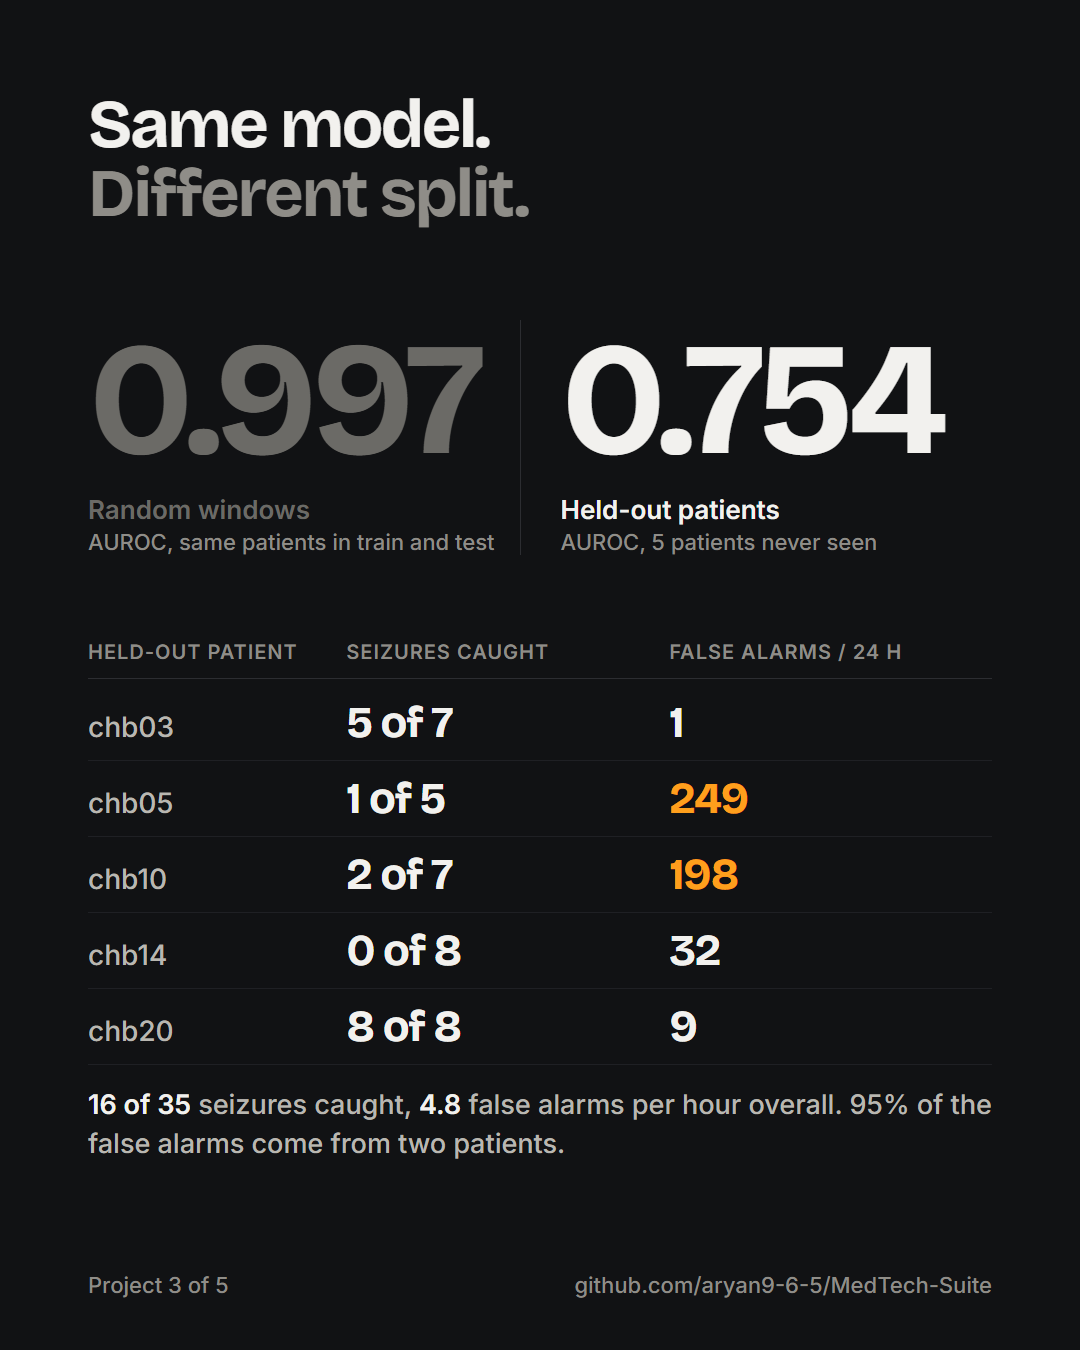
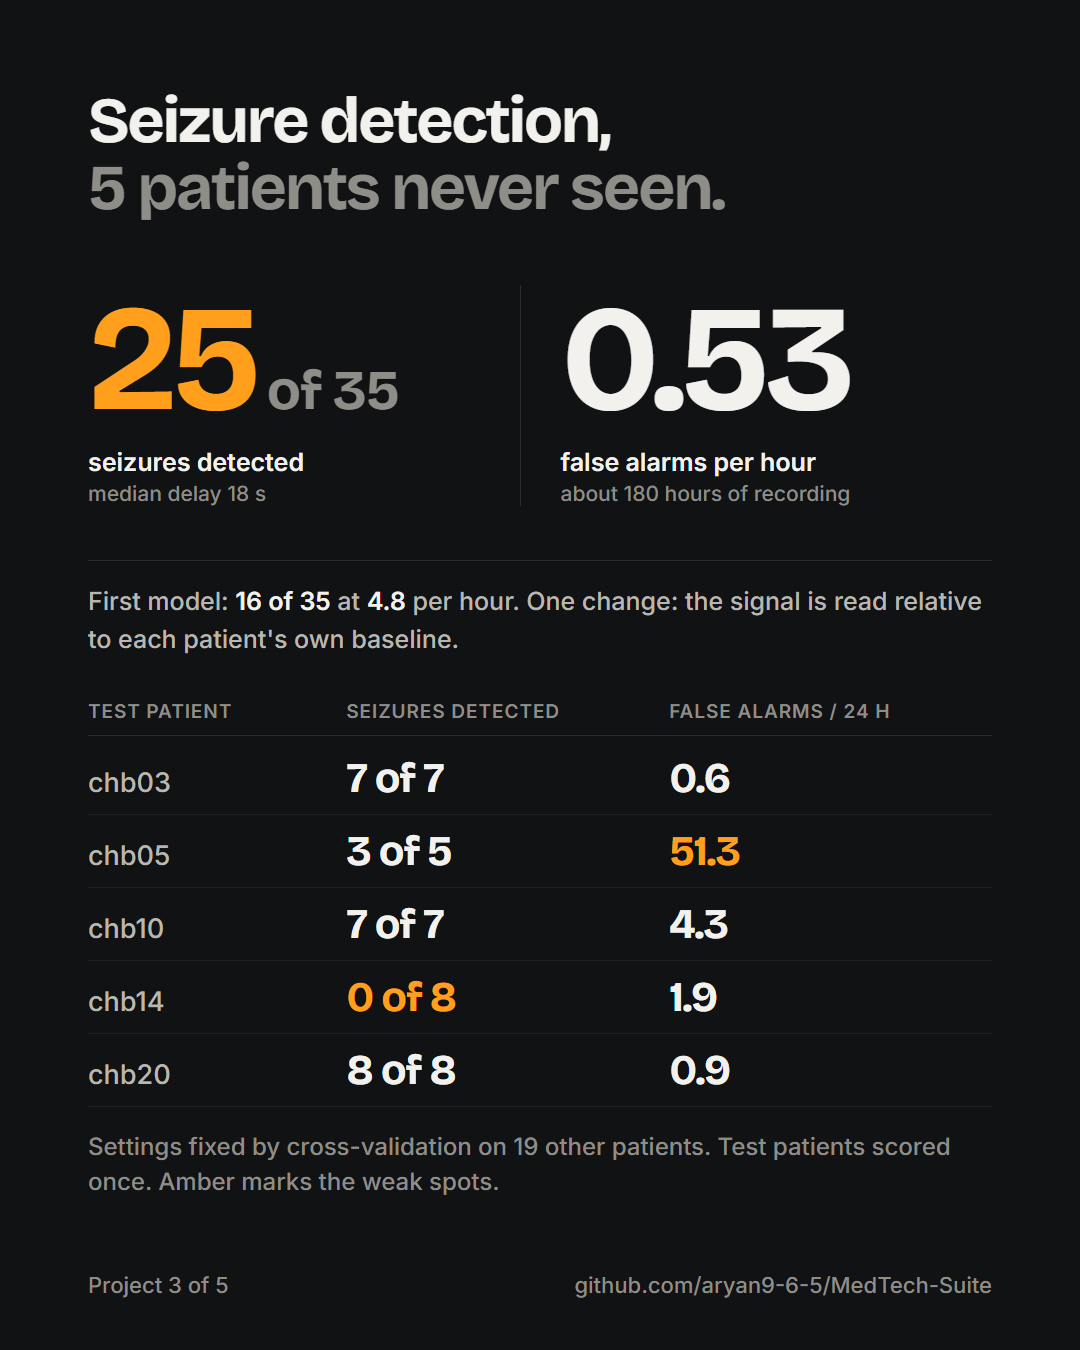
Day 3: results card for experiment 2

diff --git a/day-3-chbmit-seizure-detection/assets/results.html b/day-3-chbmit-seizure-detection/assets/results.html
@@ -5,32 +5,35 @@
 html,body{width:1080px;height:1350px}
 body{background:#111214;font-family:'Inter',-apple-system,'Segoe UI',sans-serif;color:#f2f1ee;position:relative;overflow:hidden;-webkit-font-smoothing:antialiased}
 .disp{font-family:'Bricolage Grotesque','Inter',sans-serif;font-weight:700}
-h1{position:absolute;left:88px;top:90px;font-size:68px;line-height:1.02;letter-spacing:-.035em}
+h1{position:absolute;left:88px;top:88px;font-size:64px;line-height:1.04;letter-spacing:-.035em}
 h1 span{color:#8f8d88}
-.cols{position:absolute;left:88px;right:88px;top:320px;display:flex}
+.cols{position:absolute;left:88px;right:88px;top:285px;display:flex}
 .col{flex:1;min-width:0} .col+.col{padding-left:40px;border-left:1.5px solid #2c2d31}
-.num{font-size:160px;line-height:1;letter-spacing:-.05em}
-.lab{margin-top:14px;font-size:26px;font-weight:600}
-.sm{margin-top:4px;font-size:22px;font-weight:500;color:#8f8d88}
-.leak .num,.leak .lab{color:#6b6a66}
-.hd{position:absolute;left:88px;right:88px;top:640px;display:flex;font-size:20px;font-weight:600;color:#8f8d88;letter-spacing:.05em;text-transform:uppercase;padding-bottom:14px;border-bottom:1.5px solid #2c2d31}
+.num{font-size:150px;line-height:1;letter-spacing:-.05em}
+.num small{font-size:56px;color:#8f8d88;letter-spacing:-.02em}
+.lab{margin-top:12px;font-size:25px;font-weight:600}
+.sm{margin-top:4px;font-size:21px;font-weight:500;color:#8f8d88}
+.col:first-child .num{color:#ff9f1c}
+.cmp{position:absolute;left:88px;right:88px;top:560px;font-size:25px;line-height:1.5;color:#b9b7b1;font-weight:500;padding-top:22px;border-top:1.5px solid #2c2d31}
+.cmp b{color:#f2f1ee}
+.hd{position:absolute;left:88px;right:88px;top:700px;display:flex;font-size:19px;font-weight:600;color:#8f8d88;letter-spacing:.05em;text-transform:uppercase;padding-bottom:12px;border-bottom:1.5px solid #2c2d31}
 .hd span,.row span{flex:1} .hd span:first-child,.row .p{flex:.8}
-.tbl{position:absolute;left:88px;right:88px;top:685px}
+.tbl{position:absolute;left:88px;right:88px;top:742px}
 .row{display:flex;align-items:baseline;padding:11px 0;border-bottom:1.5px solid #1f2024}
-.row .p{font-size:28px;color:#b9b7b1;font-weight:500}
-.row .d,.row .f{font-family:'Bricolage Grotesque','Inter',sans-serif;font-weight:700;font-size:44px;letter-spacing:-.03em}
+.row .p{font-size:27px;color:#b9b7b1;font-weight:500}
+.row .d,.row .f{font-family:'Bricolage Grotesque','Inter',sans-serif;font-weight:700;font-size:42px;letter-spacing:-.03em}
 .row .bad{color:#ff9f1c}
-.tot{position:absolute;left:88px;right:88px;top:1085px;font-size:27px;line-height:1.45;color:#b9b7b1;font-weight:500}
-.tot b{color:#f2f1ee}
+.note{position:absolute;left:88px;right:88px;top:1130px;font-size:24px;line-height:1.45;color:#8f8d88;font-weight:500}
 .foot{position:absolute;left:88px;right:88px;bottom:52px;display:flex;justify-content:space-between;font-size:22px;font-weight:500;color:#8f8d88}
 </style></head><body>
-<h1 class="disp">Same model.<br><span>Different split.</span></h1>
+<h1 class="disp">Seizure detection,<br><span>5 patients never seen.</span></h1>
 <div class="cols">
- <div class="col leak"><p class="num disp">0.997</p><p class="lab">Random windows</p><p class="sm">AUROC, same patients in train and test</p></div>
- <div class="col"><p class="num disp">0.754</p><p class="lab">Held-out patients</p><p class="sm">AUROC, 5 patients never seen</p></div>
+ <div class="col"><p class="num disp">25<small> of 35</small></p><p class="lab">seizures detected</p><p class="sm">median delay 18 s</p></div>
+ <div class="col"><p class="num disp">0.53</p><p class="lab">false alarms per hour</p><p class="sm">about 180 hours of recording</p></div>
 </div>
-<div class="hd"><span>Held-out patient</span><span>Seizures caught</span><span>False alarms / 24 h</span></div>
-<div class="tbl"><div class="row"><span class="p">chb03</span><span class="d">5 of 7</span><span class="f">1</span></div><div class="row"><span class="p">chb05</span><span class="d">1 of 5</span><span class="f bad">249</span></div><div class="row"><span class="p">chb10</span><span class="d">2 of 7</span><span class="f bad">198</span></div><div class="row"><span class="p">chb14</span><span class="d">0 of 8</span><span class="f">32</span></div><div class="row"><span class="p">chb20</span><span class="d">8 of 8</span><span class="f">9</span></div></div>
-<p class="tot"><b>16 of 35</b> seizures caught, <b>4.8</b> false alarms per hour overall. 95% of the false alarms come from two patients.</p>
+<p class="cmp">First model: <b>16 of 35</b> at <b>4.8</b> per hour. One change: the signal is read relative to each patient's own baseline.</p>
+<div class="hd"><span>Test patient</span><span>Seizures detected</span><span>False alarms / 24 h</span></div>
+<div class="tbl"><div class="row"><span class="p">chb03</span><span class="d">7 of 7</span><span class="f">0.6</span></div><div class="row"><span class="p">chb05</span><span class="d">3 of 5</span><span class="f bad">51.3</span></div><div class="row"><span class="p">chb10</span><span class="d">7 of 7</span><span class="f">4.3</span></div><div class="row"><span class="p">chb14</span><span class="d bad">0 of 8</span><span class="f">1.9</span></div><div class="row"><span class="p">chb20</span><span class="d">8 of 8</span><span class="f">0.9</span></div></div>
+<p class="note">Settings fixed by cross-validation on 19 other patients. Test patients scored once. Amber marks the weak spots.</p>
 <div class="foot"><span>Project 3 of 5</span><span>github.com/aryan9-6-5/MedTech-Suite</span></div>
 </body></html>
